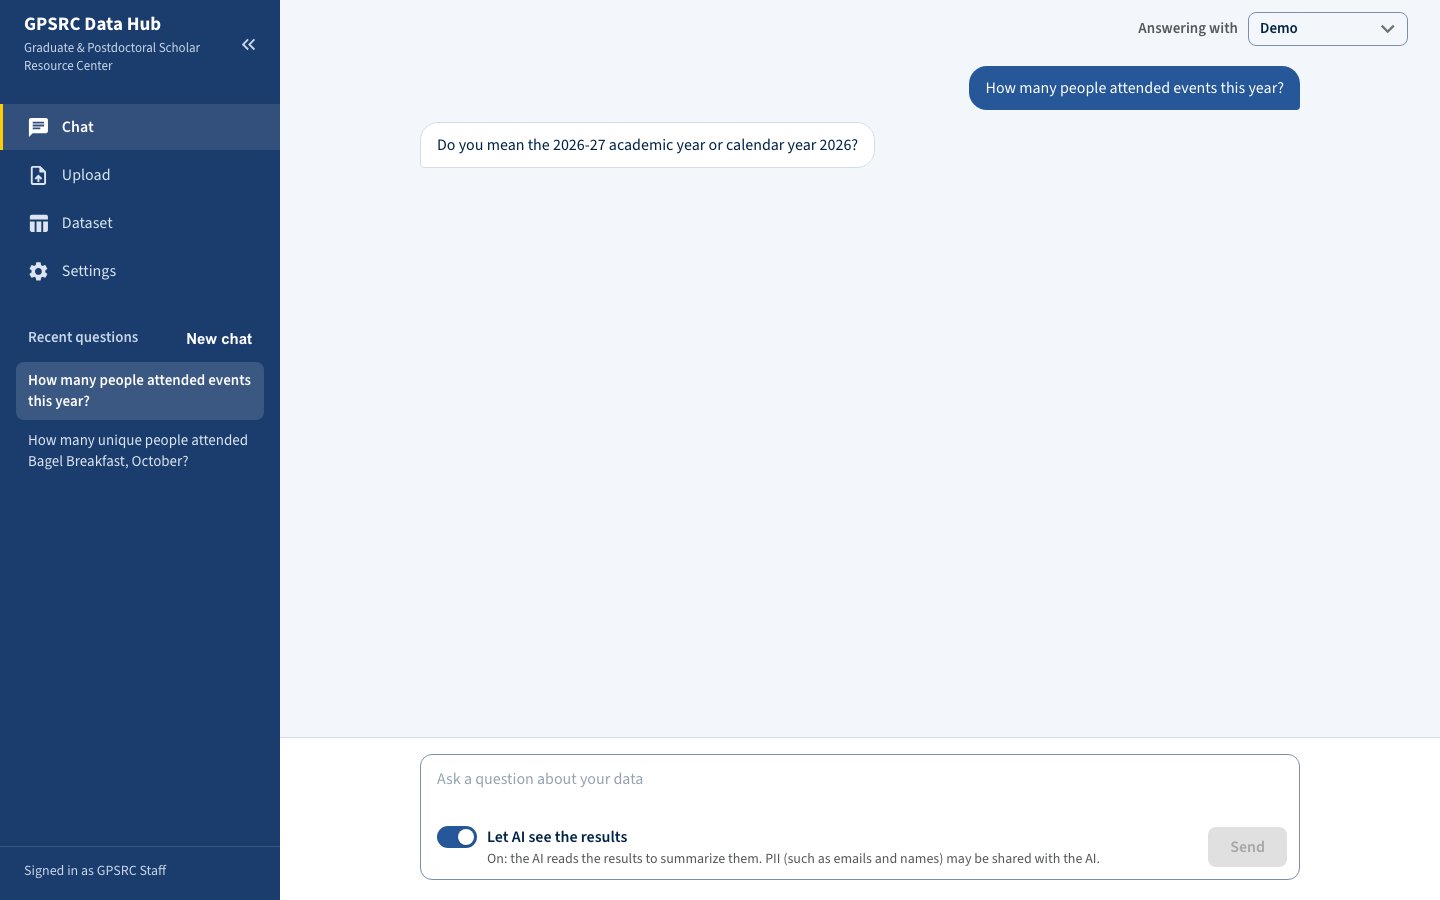
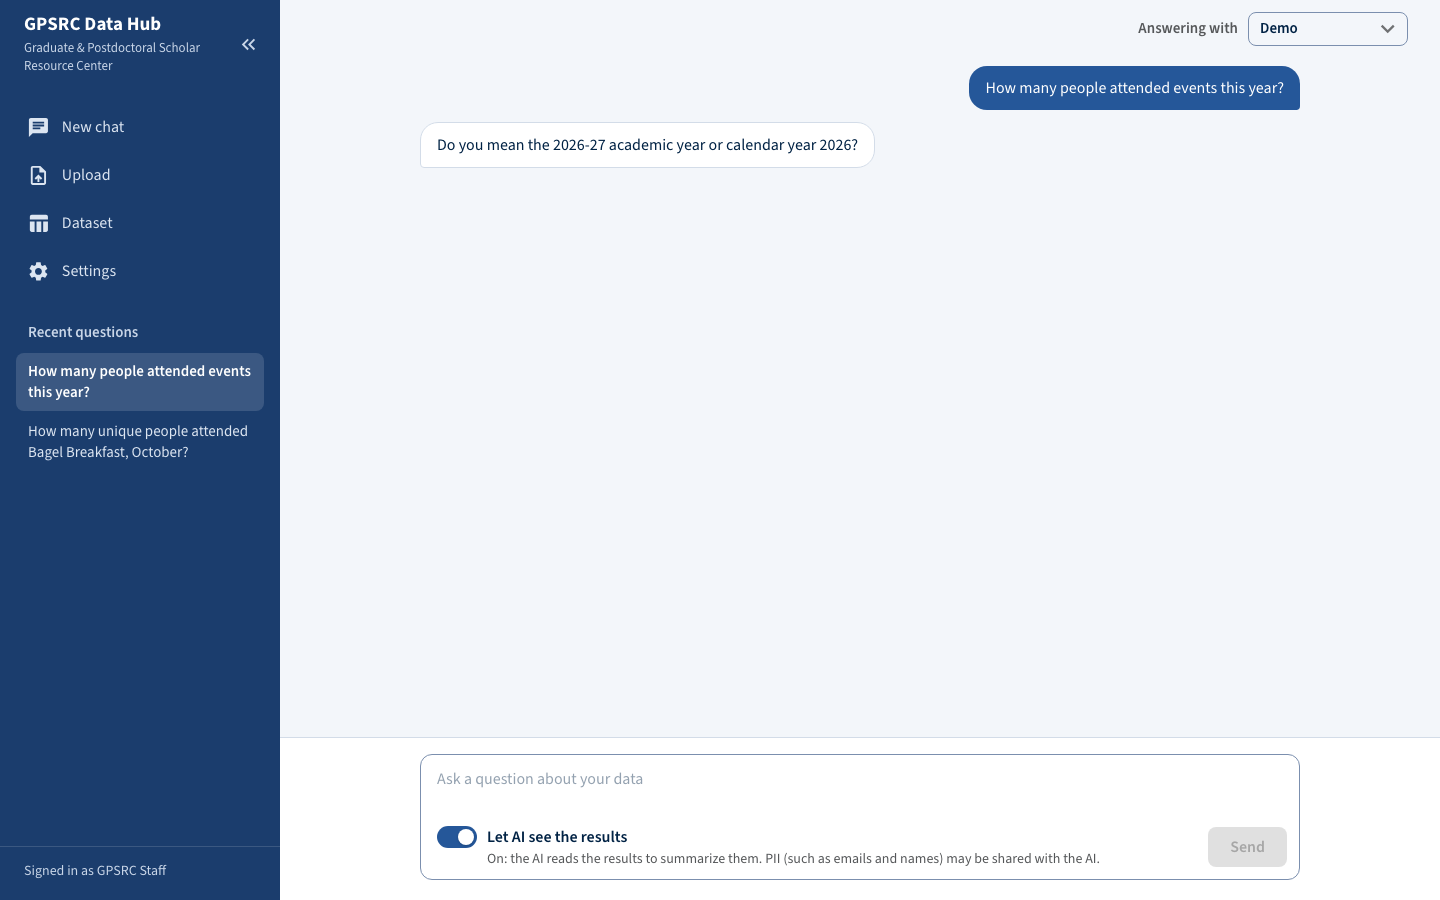
feat(ui): make "New chat" the first nav link and drop the list's own button
The Chat link becomes "New chat" and opens the /chat draft; it is marked current only on the
draft, while an open conversation is marked in "Recent questions". The "New chat" button beside
"Recent questions" and the rail's separate "+" button go, since the first nav link does the same.
Screenshots re-shot.

Changed region(s): [[0.0, 0.3422, 0.1875, 0.5289], [0.0, 0.1244, 0.0938, 0.1556]]

diff --git a/project/frontend/src/app/AppShell.tsx b/project/frontend/src/app/AppShell.tsx
@@ -6,22 +6,23 @@ import ChatIcon from "@mui/icons-material/Chat";
 import SettingsIcon from "@mui/icons-material/Settings";
 import TableChartIcon from "@mui/icons-material/TableChart";
 import UploadFileIcon from "@mui/icons-material/UploadFile";
-import AddIcon from "@mui/icons-material/Add";
 import KeyboardDoubleArrowLeftIcon from "@mui/icons-material/KeyboardDoubleArrowLeft";
 import KeyboardDoubleArrowRightIcon from "@mui/icons-material/KeyboardDoubleArrowRight";
 import { useQuery } from "@tanstack/react-query";
 import { Suspense, useState } from "react";
-import { NavLink, Outlet, useNavigate } from "react-router";
+import { NavLink, Outlet } from "react-router";
 import { apiGet } from "../api/client";
 import type { MeOut } from "../api/types";
 import ConversationList from "../features/chat/ConversationList";
 import { tokens } from "./theme";
 
+// "New chat" opens the /chat draft; the first question creates the conversation. It is the current
+// page only on the draft itself: an open conversation is marked in "Recent questions" instead.
 const NAV = [
-  { to: "/chat", label: "Chat", icon: <ChatIcon fontSize="small" /> },
-  { to: "/upload", label: "Upload", icon: <UploadFileIcon fontSize="small" /> },
-  { to: "/dataset", label: "Dataset", icon: <TableChartIcon fontSize="small" /> },
-  { to: "/settings", label: "Settings", icon: <SettingsIcon fontSize="small" /> },
+  { to: "/chat", label: "New chat", icon: <ChatIcon fontSize="small" />, end: true },
+  { to: "/upload", label: "Upload", icon: <UploadFileIcon fontSize="small" />, end: false },
+  { to: "/dataset", label: "Dataset", icon: <TableChartIcon fontSize="small" />, end: false },
+  { to: "/settings", label: "Settings", icon: <SettingsIcon fontSize="small" />, end: false },
 ];
 
 const whiteRing = { outline: "2px solid #FFFFFF", outlineOffset: "2px" };
@@ -33,7 +34,6 @@ const RAIL_WIDTH = 72;
 
 export default function AppShell() {
   const me = useQuery({ queryKey: ["me"], queryFn: () => apiGet<MeOut>("/api/me"), retry: false });
-  const navigate = useNavigate();
   const [collapsed, setCollapsed] = useState(false);
   const toggleLabel = collapsed ? "Expand navigation" : "Collapse navigation";
 
@@ -111,6 +111,7 @@ export default function AppShell() {
               key={item.to}
               component={NavLink}
               to={item.to}
+              end={item.end}
               aria-label={item.label}
               title={item.label}
               sx={{
@@ -139,27 +140,7 @@ export default function AppShell() {
             </ButtonBase>
           ))}
         </Box>
-        {collapsed ? (
-          <Box sx={{ flex: 1, display: "flex", justifyContent: "center", pt: "20px" }}>
-            <ButtonBase
-              aria-label="New chat"
-              title="New chat"
-              onClick={() => void navigate("/chat")}
-              sx={{
-                width: 44,
-                height: 44,
-                borderRadius: "8px",
-                color: "#FFFFFF",
-                transition: "background-color 120ms ease",
-                "&:hover": { bgcolor: "rgba(255,255,255,0.12)" },
-              }}
-            >
-              <AddIcon fontSize="small" />
-            </ButtonBase>
-          </Box>
-        ) : (
-          <ConversationList />
-        )}
+        {collapsed ? <Box sx={{ flex: 1 }} /> : <ConversationList />}
         {!collapsed && (
           <Typography
             sx={{

diff --git a/project/frontend/src/app/AppShell.test.tsx b/project/frontend/src/app/AppShell.test.tsx
@@ -83,12 +83,30 @@ describe("AppShell", () => {
     expect(await screen.findByText("No conversations yet.")).toBeTruthy();
   });
 
-  it("New chat goes to the /chat draft", async () => {
+  it("New chat is the first page link and goes to the /chat draft", async () => {
     mockApi({ me: ME, conversations: CONVERSATIONS });
     const user = userEvent.setup();
     const router = renderShell("/settings");
-    await user.click(await screen.findByRole("button", { name: "New chat" }));
+    const main = screen.getByRole("navigation", { name: "Main navigation" });
+    const links = within(main).getAllByRole("link");
+    expect(links.map((l) => l.getAttribute("aria-label"))).toEqual(["New chat", "Upload", "Dataset", "Settings"]);
+    await user.click(links[0]);
     expect(router.state.location.pathname).toBe("/chat");
+    expect(links[0].getAttribute("aria-current")).toBe("page");
+    // The list has no button of its own.
+    const list = await screen.findByRole("navigation", { name: "Recent questions" });
+    expect(within(list).queryByRole("button")).toBeNull();
+  });
+
+  it("marks an open conversation in the list, not New chat", async () => {
+    mockApi({ me: ME, conversations: CONVERSATIONS });
+    renderShell("/chat/1");
+    const list = await screen.findByRole("navigation", { name: "Recent questions" });
+    const open = await within(list).findByRole("link", {
+      name: "How many unique people attended Bagel Breakfast, October?",
+    });
+    expect(open.getAttribute("aria-current")).toBe("page");
+    expect(screen.getByRole("link", { name: "New chat" }).getAttribute("aria-current")).toBeNull();
   });
 
   it("collapses to an icon rail and expands again", async () => {
@@ -104,13 +122,11 @@ describe("AppShell", () => {
     expect(screen.queryByText("GPSRC Data Hub")).toBeNull();
     expect(screen.queryByText("Signed in as Ada Lovelace")).toBeNull();
     expect(screen.queryByRole("navigation", { name: "Recent questions" })).toBeNull();
-    for (const name of ["Chat", "Upload", "Dataset", "Settings"]) {
+    for (const name of ["New chat", "Upload", "Dataset", "Settings"]) {
       expect(screen.getByRole("link", { name }).getAttribute("title")).toBe(name);
     }
-    // The rail keeps New chat as an icon button.
-    const newChat = screen.getByRole("button", { name: "New chat" });
-    expect(newChat.getAttribute("title")).toBe("New chat");
-    await user.click(newChat);
+    // New chat stays reachable in the rail as the first icon.
+    await user.click(screen.getByRole("link", { name: "New chat" }));
     expect(router.state.location.pathname).toBe("/chat");
     await user.click(expand);
     expect(screen.getByText("GPSRC Data Hub")).toBeTruthy();
@@ -124,7 +140,7 @@ describe("AppShell", () => {
     renderShell("/upload");
     for (let i = 0; i < 2; i++) {
       expect(screen.getByRole("link", { name: "Upload" }).getAttribute("aria-current")).toBe("page");
-      expect(screen.getByRole("link", { name: "Chat" }).getAttribute("aria-current")).toBeNull();
+      expect(screen.getByRole("link", { name: "New chat" }).getAttribute("aria-current")).toBeNull();
       if (i === 0) await user.click(screen.getByRole("button", { name: "Collapse navigation" }));
     }
   });

diff --git a/project/frontend/src/features/chat/ConversationList.tsx b/project/frontend/src/features/chat/ConversationList.tsx
@@ -1,17 +1,15 @@
 import Box from "@mui/material/Box";
-import ButtonBase from "@mui/material/ButtonBase";
 import List from "@mui/material/List";
 import ListItemButton from "@mui/material/ListItemButton";
 import Typography from "@mui/material/Typography";
-import { NavLink, useNavigate } from "react-router";
+import { NavLink } from "react-router";
 import { tokens } from "../../app/theme";
 import { useConversations } from "./useConversations";
 
 // "Recent questions" in the side nav, on every page. It fills the nav's free height and scrolls
-// inside it, so the nav links above and the footer below stay put.
+// inside it, so the nav links above and the footer below stay put. "New chat" is the first nav link.
 export default function ConversationList() {
   const conversations = useConversations();
-  const navigate = useNavigate();
 
   return (
     <Box
@@ -19,33 +17,13 @@ export default function ConversationList() {
       aria-labelledby="recent-questions"
       sx={{ flex: 1, minHeight: 0, display: "flex", flexDirection: "column", mt: "28px", px: 2 }}
     >
-      <Box sx={{ display: "flex", alignItems: "center", justifyContent: "space-between", gap: 1.5, pl: 1.5, pr: 0.5, pb: 1 }}>
-        <Typography
-          id="recent-questions"
-          component="h2"
-          sx={{ fontSize: 15, fontWeight: 600, color: tokens.navMuted, whiteSpace: "nowrap" }}
-        >
-          Recent questions
-        </Typography>
-        {/* /chat is a draft; the first question creates the conversation. */}
-        <ButtonBase
-          onClick={() => void navigate("/chat")}
-          sx={{
-            flexShrink: 0,
-            minHeight: 32,
-            px: 1,
-            borderRadius: "6px",
-            fontSize: 15,
-            fontWeight: 600,
-            color: "#FFFFFF",
-            whiteSpace: "nowrap",
-            transition: "background-color 120ms ease",
-            "&:hover": { bgcolor: "rgba(255,255,255,0.12)" },
-          }}
-        >
-          New chat
-        </ButtonBase>
-      </Box>
+      <Typography
+        id="recent-questions"
+        component="h2"
+        sx={{ pl: 1.5, pb: 1, fontSize: 15, fontWeight: 600, color: tokens.navMuted, whiteSpace: "nowrap" }}
+      >
+        Recent questions
+      </Typography>
       <Box
         sx={{
           flex: 1,

diff --git a/project/frontend/src/features/chat/ChatPage.test.tsx b/project/frontend/src/features/chat/ChatPage.test.tsx
@@ -230,7 +230,7 @@ describe("ChatPage", () => {
     await s.finish();
     expect(screen.getByText("First draft question")).toBeInTheDocument();
     scrollIntoView.mockClear();
-    await user.click(screen.getByRole("button", { name: "New chat" }));
+    await user.click(screen.getByRole("link", { name: "New chat" }));
     expect(router.state.location.pathname).toBe("/chat");
     expect(await screen.findByText("Ask a question about your data to start.")).toBeInTheDocument();
     expect(screen.queryByText("First draft question")).not.toBeInTheDocument();
@@ -662,7 +662,7 @@ describe("ChatPage", () => {
       "title",
       "Bagel Breakfast attendance",
     );
-    await user.click(screen.getByRole("button", { name: "New chat" }));
+    await user.click(screen.getByRole("link", { name: "New chat" }));
     expect(router.state.location.pathname).toBe("/chat");
     expect(apiSend).not.toHaveBeenCalled();
   });

diff --git a/project/frontend/e2e/screenshots.spec.ts b/project/frontend/e2e/screenshots.spec.ts
@@ -63,7 +63,7 @@ test("midterm screenshots", async ({ page }) => {
 
   await test.step("chat answer with the SQL", async () => {
     await page.goto("/chat");
-    await page.getByRole("button", { name: "New chat" }).click();
+    await page.getByRole("link", { name: "New chat" }).click();
     await ask(
       page,
       "How many unique people attended Bagel Breakfast, October?",
@@ -82,7 +82,7 @@ test("midterm screenshots", async ({ page }) => {
   });
 
   await test.step("clarifying question", async () => {
-    await page.getByRole("button", { name: "New chat" }).click();
+    await page.getByRole("link", { name: "New chat" }).click();
     await ask(
       page,
       "How many people attended events this year?",

diff --git a/project/frontend/e2e/timing.spec.ts b/project/frontend/e2e/timing.spec.ts
@@ -47,7 +47,7 @@ for (const q of QUESTIONS) {
   test(`${q.id}: question to downloaded Excel under 60 s`, async ({ page }) => {
     test.setTimeout(LIMIT_MS + 60_000);
     await page.goto("/chat");
-    await page.getByRole("button", { name: "New chat" }).click();
+    await page.getByRole("link", { name: "New chat" }).click();
     await page.getByLabel("Answering with").click();
     await page.getByRole("option", { name: PROFILE!, exact: true }).click();
 

diff --git a/project/frontend/e2e/happy-path.spec.ts b/project/frontend/e2e/happy-path.spec.ts
@@ -26,7 +26,7 @@ test("upload, ask, export", async ({ page }) => {
   await ensureBagelImported(page);
 
   await page.goto("/chat");
-  await page.getByRole("button", { name: "New chat" }).click();
+  await page.getByRole("link", { name: "New chat" }).click();
   await page.getByRole("textbox").fill("How many unique people attended Bagel Breakfast, October?");
   await page.keyboard.press("Enter");
   await expect(page.getByRole("grid")).toContainText("38");
